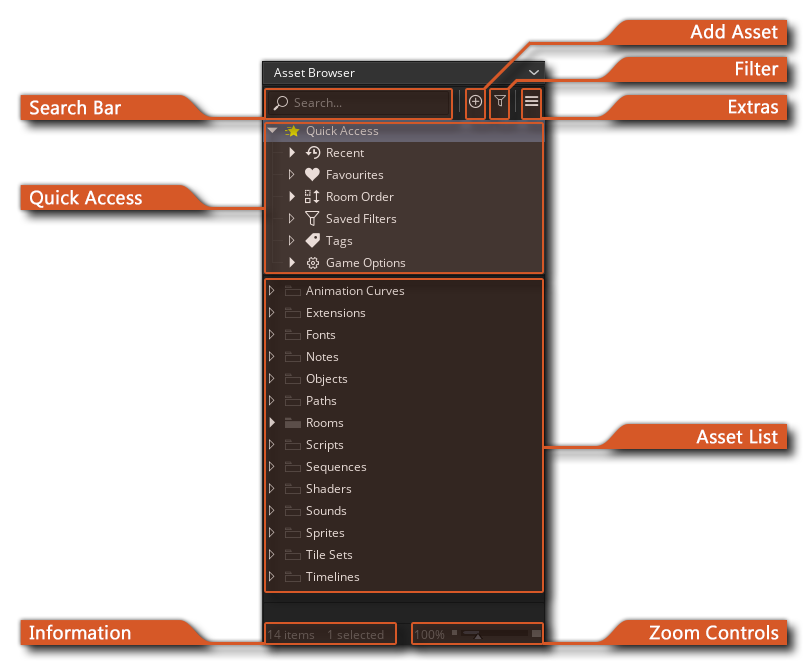
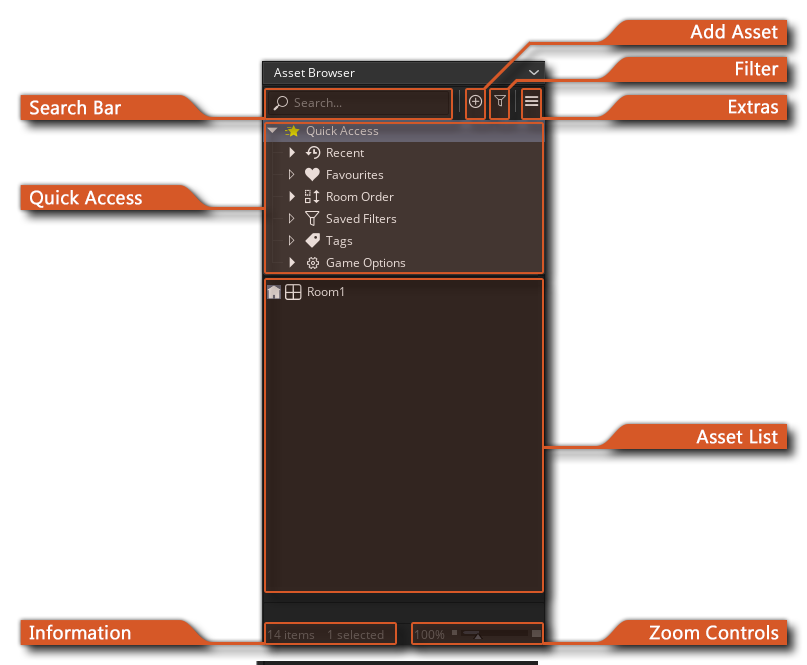
docs(feature): Document 2024.14 change to disable auto folder creation by default

Changed region(s): [[0.3098, 0.4211, 0.4957, 0.8722], [0.3098, 0.9925, 0.6815, 1.0]]

diff --git a/Manual/contents/Introduction/The_Asset_Browser.htm b/Manual/contents/Introduction/The_Asset_Browser.htm
@@ -67,7 +67,9 @@
   </div>
   <p><a class="dropspot" data-rhwidget="DropSpot" data-target="drop_down11" href="#">Asset List</a></p>
   <div class="droptext" data-targetname="drop_down11">
-    <p class="dropspot">This section of the asset browser lists all the different assets that you are using in your game. By default - when you create a new project - this will be populated with numerous folder groups labelled with the different kinds of assets that can be added, but these can be renamed or even removed and you don&#39;t have to store assets of the same kind in each group. For example, you may find it more useful to create a group of assets for each level of your game rather than for each kind of asset, so you can create folder groups called &quot;Level 1&quot;, &quot;Level 2&quot;, etc. and store all the different assets for each level in the same folder. How you organise things really is up to you!</p>
+    <p class="dropspot">This section of the asset browser lists all the different assets that you are using in your game. By default - when you create a new project - this will only contain a room asset that is required to run your game. You can right-click in the Asset List and select &quot;<strong>Create Group</strong>&quot; to create folders and organise your assets.</p>
+    <p class="note"><span data-conref="../assets/snippets/Tag_tip.hts"> </span> You can enable the &quot;<strong>Create default groups in new project</strong>&quot; option in the <a href="../Setting_Up_And_Version_Information/IDE_Preferences/Asset_Browser_Preferences.htm">preferences</a> so that any new projects are created with folders for each asset type pre-created.</p>
+    <p class="dropspot">You can create folders for the asset types you use, or alternatively, you may find it more useful to create a group of assets for each level of your game rather than for each kind of asset, so you can create folder groups called &quot;Level 1&quot;, &quot;Level 2&quot;, etc. and store all the different assets for each level in the same folder. How you organise things really is up to you!</p>
     <p class="dropspot"><img alt="Asset Browser Example" class="center" src="../assets/Images/Introduction/QS_AssetBrowser_CustomList.png" /> To add a new asset to the list you can use the <img class="icon" src="../assets/Images/Icons/Icon_AddArgument.png" /> <strong>Add Asset</strong> button at the top of the Asset Browser, or you can open the right mouse button <img alt="Icon RMB" class="icon" src="../assets/Images/Icons/Icon_RMB.png" /> menu anywhere in the asset list and then select the asset type to create:</p>
     <p class="dropspot"><img alt="Create Asset RMB Menu" class="center" src="../assets/Images/Introduction/QS_AssetBrowser_CreateAsset.png" /> Once the asset has been created it will be opened in the workspace. To open an asset manually you can double-click <img alt="LMB Icon" class="icon" src="../assets/Images/Icons/Icon_LMB.png" /> on it or drag it into the currently open workspace where its editor will appear where it was dropped under the mouse cursor.</p>
     <p class="dropspot">You can rename it to something that is appropriate to your game, but note that asset names can only be alpha-numeric, cannot start with a number, and can only use the underscore &quot;_&quot; as an additional character. You can also use the RMB <img alt="Icon RMB" class="icon" src="../assets/Images/Icons/Icon_RMB.png" /> menu to create new folder groups to contain assets using the <strong>Create Group</strong> option, and these can be named anything you wish. If you want to rename any asset or folder group, then you can do a slow double-click <img alt="LMB Icon" class="icon" src="../assets/Images/Icons/Icon_LMB.png" /> on them or use the RMB <img alt="Icon RMB" class="icon" src="../assets/Images/Icons/Icon_RMB.png" /> menu option <strong>Rename</strong>.</p>

diff --git a/Manual/contents/Setting_Up_And_Version_Information/IDE_Preferences/Asset_Browser_Preferences.htm b/Manual/contents/Setting_Up_And_Version_Information/IDE_Preferences/Asset_Browser_Preferences.htm
@@ -18,7 +18,7 @@
   <p><img alt="The Asset Browser Preferences" class="center" src="../../assets/Images/Setup_And_Version/Preferences/AssetBrowser_Prefs.png" />The <strong>Asset Browser Preferences</strong> are used to define certain properties for how the <a href="../../Introduction/The_Asset_Browser.htm">Asset Browser</a> and its elements function. The main options are:</p>
   <ul class="colour">
     <li><strong>Show Quick Access</strong>: When enabled, this option will show the &quot;Quick Access&quot; section at the top of the Asset Browser. This option is enabled by default.</li>
-    <li><strong>Create default folders in new project</strong>: When enabled, this option will have all new projects start with the default asset folders already created, and when disabled, only a room folder will be created with the default room required by all projects. This option is enabled by default.</li>
+    <li><strong>Create default folders in new project</strong>: When enabled, this option will have all new projects start with the default asset folders already created, and when disabled, only a room folder will be created with the default room required by all projects. This option is disabled by default.</li>
     <li><strong>Maximum number of assets to open simultaneously without warning</strong>: You can select multiple assets for opening at a time by using <img alt="Icon Control" class="icon" height="20" src="../../assets/Images/Icons/Icon_Ctrl.png" width="55" /> / <img alt="Icon Cmd" class="icon" height="20" src="../../assets/Images/Icons/Icon_Cmd.png" width="55" /> +  <img alt="Icon LMB" class="icon" src="../../assets/Images/Icons/Icon_LMB.png" /> to select them and then right clicking <img alt="Icon RMB" class="icon" src="../../assets/Images/Icons/Icon_RMB.png" /> and choosing open all. If you have selected more than the number specified in this option, then you will be shown a warning, since having too many assets open at one time can cause issues with performance on lower end machines. The default value is 10.</li>
     <li><strong>Maximum recently edited items</strong>: This setting governs the number of assets listed in the &quot;Recent&quot; section of the Asset Browser. The default value is 10.</li>
     <li><strong>Colour Palette Size</strong>: Here you can set the number of colours available to you in the asset browser palette for asset groups. The default value is 16, with a minimum value of 16 and a maximum value of 100.</li>
@@ -71,7 +71,7 @@
         <div style="float:right">Next: <a data-xref="{title}" href="Inspector_Preferences.htm">Inspector Preferences</a></div>
       </div>
     </div>
-    <h5><span data-keyref="Copyright Notice">© Copyright YoYo Games Ltd. 2024 All Rights Reserved</span></h5>
+    <h5><span data-keyref="Copyright Notice">© Copyright YoYo Games Ltd. 2025 All Rights Reserved</span></h5>
   </div>
   <!-- KEYWORDS
 Preferences - Asset Browser
